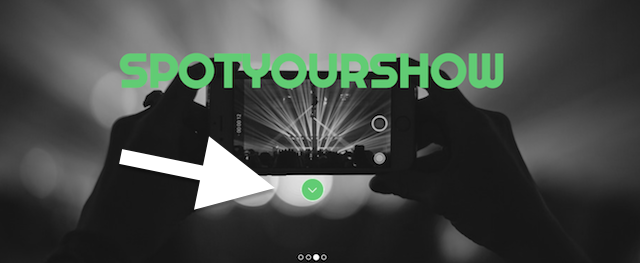
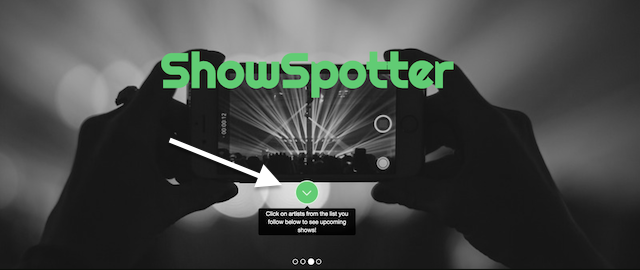
text and readmepic

diff --git a/index.html b/index.html
@@ -30,7 +30,7 @@
             <div class="row product-title-info">
                 <div class="col-md-12">
                     <h1>
-                        ShowSpotter
+                        <span id="italText">Show</span>Spotter
                     </h1>
                     <a class="ct-btn-scroll ct-js-btn-scroll" href="#section2" data-toggle="tooltip" data-placement="bottom" title="Click on artists from the list you follow below to see upcoming shows!">
                         <img id="scrollImg" alt="Arrow Down Icon" src="https://www.solodev.com/assets/anchor/arrow-down.png">

diff --git a/css/style.css b/css/style.css
@@ -12,6 +12,10 @@
     height: 600px;
 }
 
+#italText {
+    color: #f8cf56;
+}
+
 #carouselImage1 {
     background: url("b&w.jpg");
     background-position: center center;
